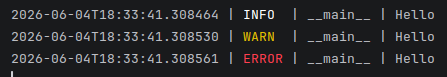
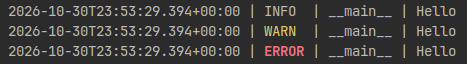
docs: update readme with new features

diff --git a/readme.md b/readme.md
@@ -1,5 +1,5 @@
 <h1>
-    <img alt="spiffy dog" src="assets/loggy.png" width="100">
+    <img alt="loggy froggy" src="assets/loggy.png" width="100">
     Loggy
 </h1>
 
@@ -10,8 +10,8 @@
 ## Features
 
 - `INFO`, `DEBUG`, or automatic silent mode
-- `tqdm` loading bar support for async, threaded, or manual increments
-- Record objects for storing logs
+- `tqdm` loading bar support for sync, async, threaded, or manual increments
+- Write to log file
 - Misc. util objects like timers
 
 ## Installation
@@ -41,6 +41,7 @@ loggy @ git+https://github.com/dlg1206/loggy.git
 - [Additional Logging Details](#additional-details)
 - [Exception Logging](#exceptions)
 - [Argparse](#argparse-support)
+- [Config](#loggy-configs)
 
 ### `INFO` mode
 
@@ -60,7 +61,7 @@ loggy.error("Hello")
 import loggy
 from loggy import Level
 
-loggy.set_log_level(Level.DEBUG)
+loggy.set_log_level(Level.DEBUG)  # or "debug"
 
 loggy.debug_info("Hello")
 loggy.debug_warn("Hello")
@@ -79,7 +80,7 @@ loggy.error("Hello")
 ```python
 import loggy
 
-loggy.set_log_level(None)
+loggy.set_log_level(None)  # "or Level.NONE or "none"
 
 print("foo")
 loggy.debug_info("Hello")
@@ -95,7 +96,7 @@ print("bar")
 
 ### `Fatal`
 
-> Program immediately exits with a non-zero code
+> Program immediately exits with a non-zero code. Will print even if debug is set to silent.
 
 ```python
 import loggy
@@ -105,19 +106,23 @@ loggy.fatal("goodbye")
 print("bar")
 ```
 
-<img src="assets/fatal_log.png" alt="terminal output of fatal">
+<img src="assets/fatal_log_1.png" alt="terminal output of fatal">
 
-Default exit code is `1` but can be set with `exit_code`
+Default exit code is `1` but can be set with `exit_code`:
 
 ```python
 import loggy
 
+print("foo")
 loggy.fatal("goodbye", exit_code=127)
+print("bar")
 ```
 
-### Async / Threaded / Manual Loading Bars
+<img src="assets/fatal_log_2.png" alt="terminal output of fatal">
 
-> Concept is the same with async, just replace futures with coroutines
+### Threaded / Async / Manual Loading Bars
+
+> Integrated `tqdm` loading bars with loggy messages
 
 #### `INFO` Mode
 
@@ -127,15 +132,12 @@ from concurrent.futures import ThreadPoolExecutor
 
 import loggy
 
-
 def sleep() -> str:
     time.sleep(1)
     return "Awake!"
 
-
 with ThreadPoolExecutor() as exe:
     futures = [exe.submit(sleep) for _ in range(3)]
-
     for f in loggy.threaded_data_queue(futures, description="sleeping", unit="zzz"):
         result = f.result()
         # do extra processing here
@@ -144,7 +146,66 @@ with ThreadPoolExecutor() as exe:
 loggy.info("Done!")
 ```
 
-<img src="assets/data_queue_info.png" alt="terminal info loading bar">
+```python
+import asyncio
+
+import loggy
+
+async def sleep() -> str:
+    await asyncio.sleep(1)
+    return "Awake!"
+
+async def main():
+    futures = [asyncio.create_task(sleep()) for _ in range(3)]
+    for f in loggy.async_data_queue(futures, description="sleeping", unit="zzz"):
+        result = await f
+        # do extra processing here
+        loggy.debug_info(result)
+    loggy.info("Done!")
+
+
+if __name__ == '__main__':
+    asyncio.run(main())
+```
+
+<img src="assets/data_queue_info_auto_1.png" alt="terminal info loading bar">
+
+```python
+import time
+
+import loggy
+
+def sleep() -> str:
+    time.sleep(1)
+    return "Awake!"
+
+for _ in loggy.data_queue(range(3), description="sleeping", unit="zzz"):
+    result = sleep()
+    loggy.debug_info(result)
+
+loggy.info("Done!")
+```
+
+```python
+import time
+
+import loggy
+
+def sleep() -> str:
+    time.sleep(1)
+    return "Awake!"
+
+bar = loggy.progress_bar(3, description="sleeping", unit="zzz")
+for _ in range(3):
+    result = sleep()
+    loggy.debug_info(result)
+    bar.update(1)
+bar.close()
+
+loggy.info("Done!")
+```
+
+<img src="assets/data_queue_info_manual.png" alt="terminal info loading bar">
 
 #### `DEBUG` Mode
 
@@ -157,15 +218,12 @@ from loggy import Level
 
 loggy.set_log_level(Level.DEBUG)  # <-- Set mode to debug
 
-
 def sleep() -> str:
     time.sleep(1)
     return "Awake!"
 
-
 with ThreadPoolExecutor() as exe:
     futures = [exe.submit(sleep) for _ in range(3)]
-
     for f in loggy.threaded_data_queue(futures, description="sleeping", unit="zzz"):
         result = f.result()
         # do extra processing here
@@ -174,7 +232,72 @@ with ThreadPoolExecutor() as exe:
 loggy.info("Done!")
 ```
 
-<img src="assets/data_queue_debug.png" alt="terminal debug loading bar">
+```python
+import asyncio
+
+import loggy
+from loggy import Level
+
+loggy.set_log_level(Level.DEBUG)  # <-- Set mode to debug
+
+async def sleep() -> str:
+    await asyncio.sleep(1)
+    return "Awake!"
+
+async def main():
+    futures = [asyncio.create_task(sleep()) for _ in range(3)]
+    for f in loggy.async_data_queue(futures, description="sleeping", unit="zzz"):
+        result = await f
+        # do extra processing here
+        loggy.debug_info(result)
+    loggy.info("Done!")
+
+if __name__ == '__main__':
+    asyncio.run(main())
+```
+
+```python
+import time
+
+import loggy
+from loggy import Level
+
+loggy.set_log_level(Level.DEBUG)  # <-- Set mode to debug
+
+def sleep() -> str:
+    time.sleep(1)
+    return "Awake!"
+
+for _ in loggy.data_queue(range(3), description="sleeping", unit="zzz"):
+    result = sleep()
+    loggy.debug_info(result)
+
+loggy.info("Done!")
+```
+
+```python
+import time
+
+import loggy
+from loggy import Level
+
+loggy.set_log_level(Level.DEBUG)  # <-- Set mode to debug
+
+def sleep() -> str:
+    time.sleep(1)
+    return "Awake!"
+
+bar = loggy.progress_bar(3, description="sleeping", unit="zzz")
+for _ in range(3):
+    result = sleep()
+    loggy.debug_info(result)
+    bar.update(1)
+bar.close()
+
+loggy.info("Done!")
+```
+
+<img src="assets/data_queue_debug_auto.png" alt="terminal debug loading bar">
 
 ### Additional Details
 
@@ -221,4 +344,16 @@ parser.add_argument(
     choices=list(Level),
     # other args ...
 )
+```
+
+### Loggy Configs
+
+```python
+import loggy
+
+loggy.set_log_level()       # set the logging level
+loggy.set_log_file()        # path to save logs to
+loggy.set_tz()              # set timezone for log timestamps
+loggy.set_output_stream()   # set the output stream
+loggy.set_force_color()     # force ansi color codes to be used
 ```
